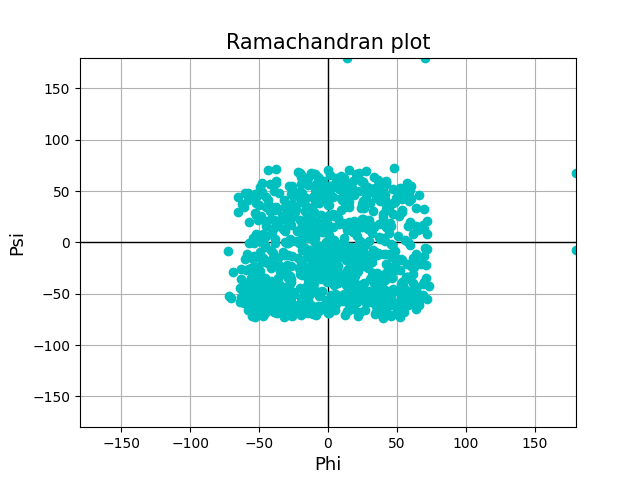
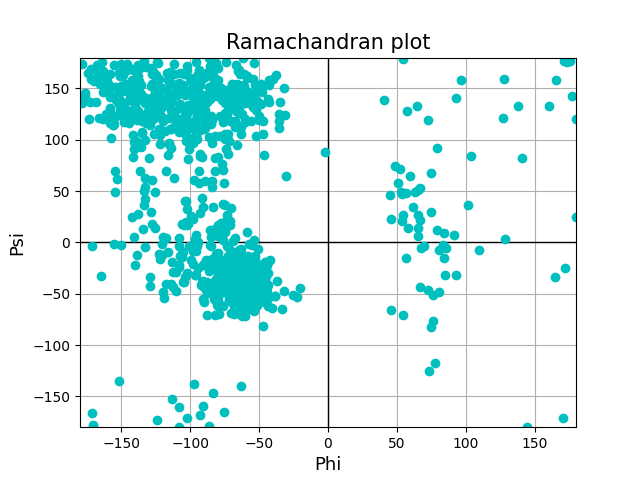
phi-psi project finished

diff --git a/phi-psi.py b/phi-psi.py
@@ -70,7 +70,7 @@ for proteinObjectIndex in range(len(proteinObjects)):
         currentResidue = [];
 
 def dot(v1, v2):
-    return v1.x * v2.x + v1.y * v2.y + v1.z + v2.z;
+    return v1.x * v2.x + v1.y * v2.y + v1.z * v2.z;
 
 def cross(v1, v2):
     return vector(v1.y * v2.z - v1.z * v2.y, v1.z * v2.x - v1.x * v2.z, v1.x * v2.y - v1.y * v2.x);
@@ -88,8 +88,7 @@ def dihedral(atom1, atom2, atom3, atom4):
 
     num1 = dot(n1, n2);
     denom1 = n1.length * n2.length;
-    #angle = math.acos(num1/denom1) * 180 / math.pi;
-    angle = (num1/denom1) * 180 / math.pi;
+    angle = math.acos(num1/denom1) * 180 / math.pi;
 
     n3 = cross(n1, n2);
 
